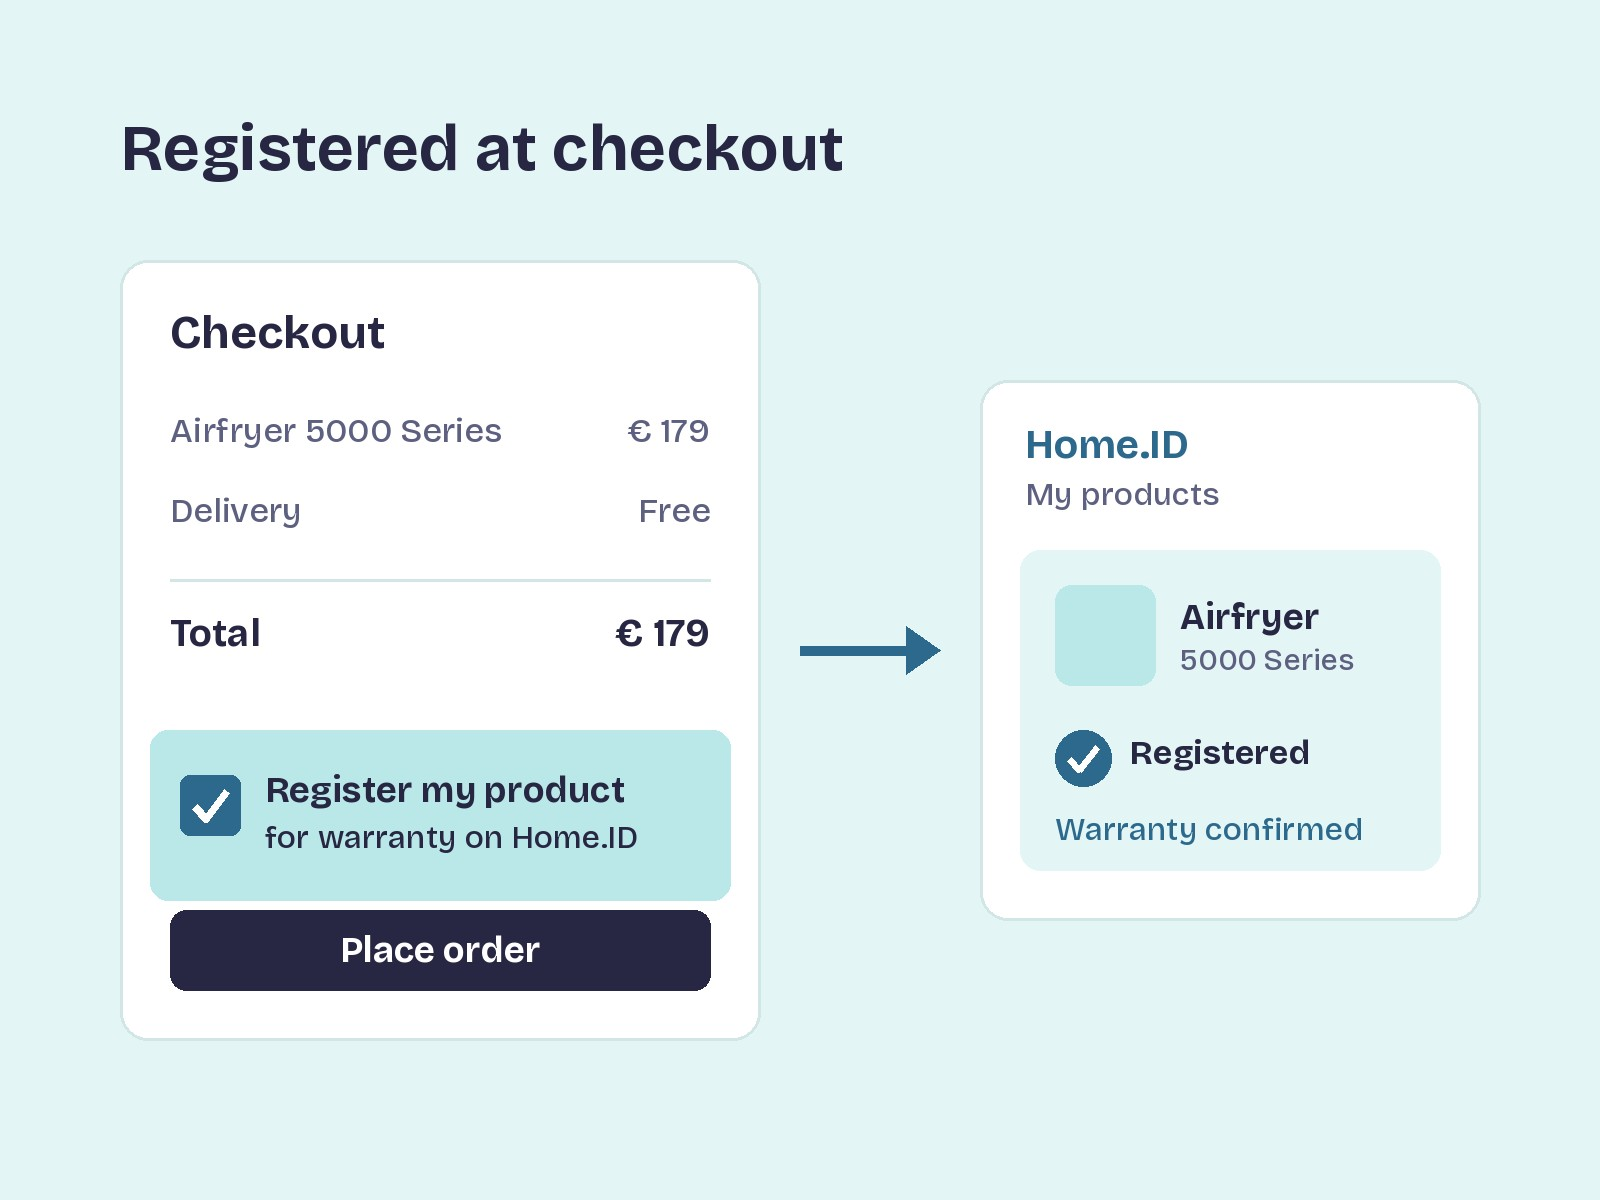
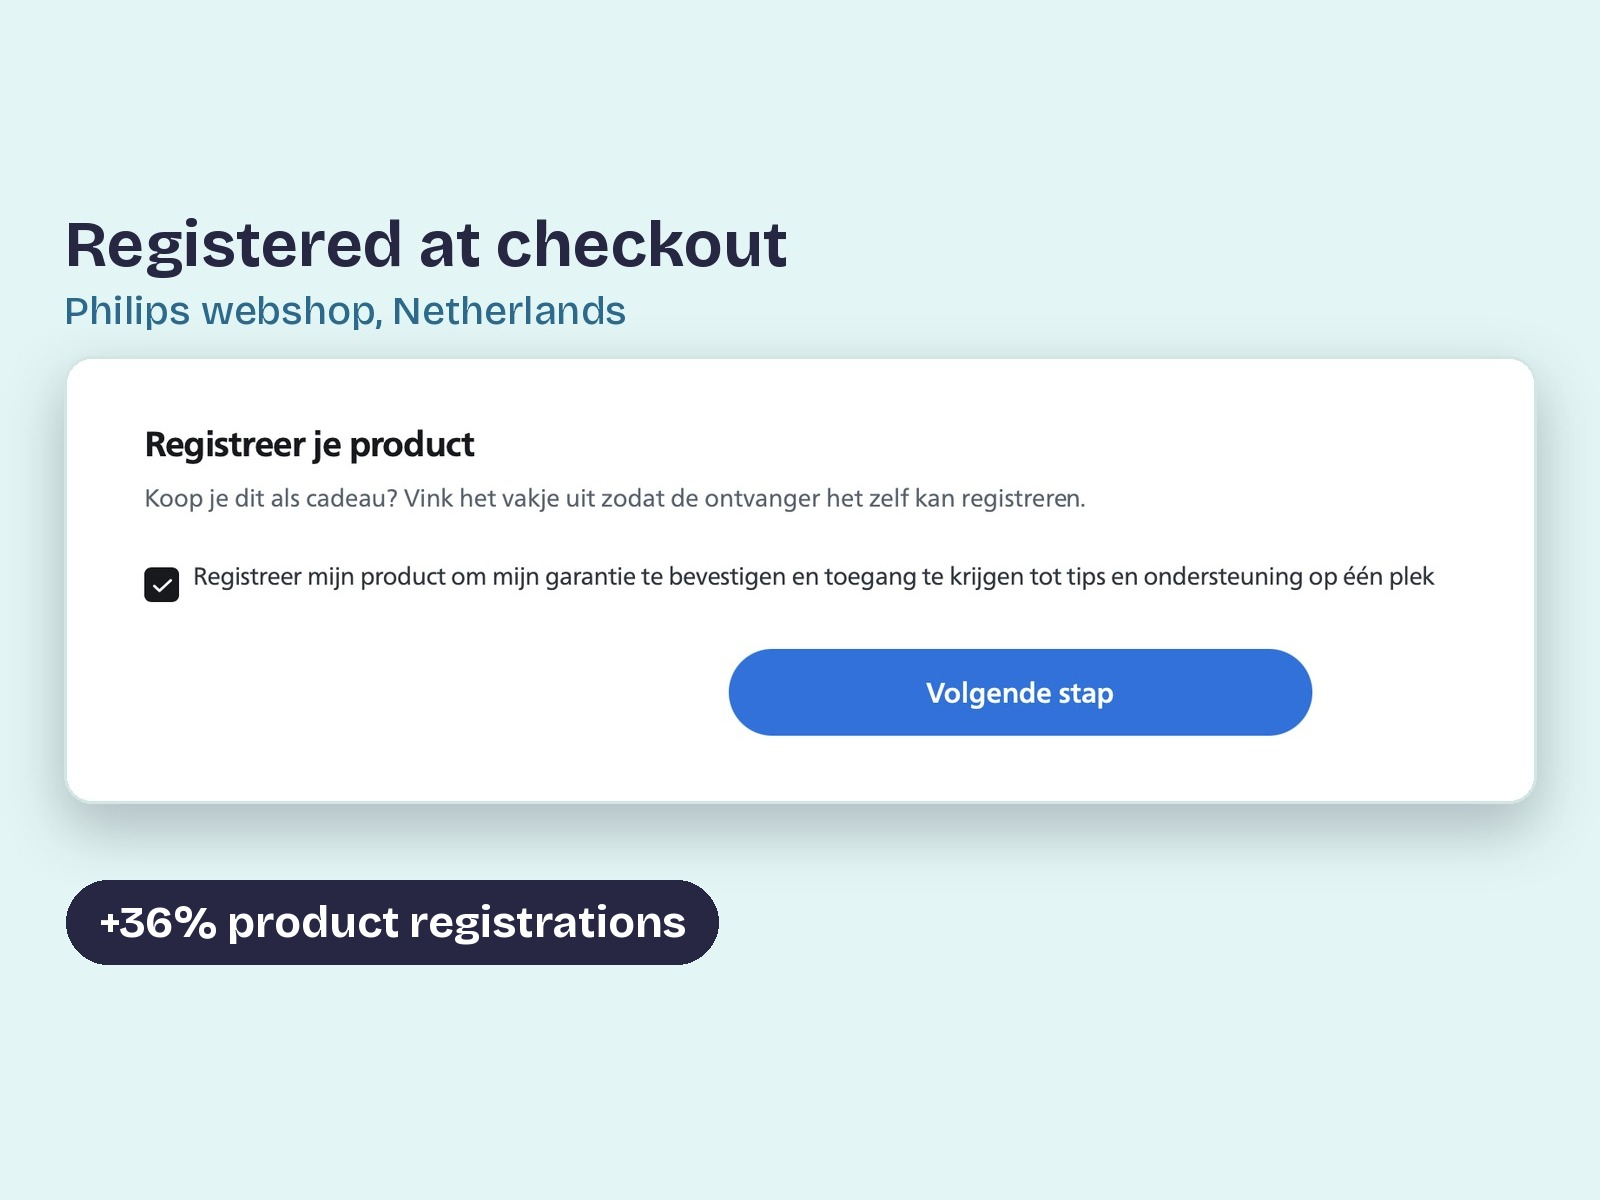
Case 03 cover: real checkout register block on mint, with the +36% result
Claude-Session: https://claude.ai/code/session_0145q5vvUPuWeEen7TLxxocU

diff --git a/src/content/projects.ts b/src/content/projects.ts
@@ -134,7 +134,7 @@ const tones: CoverTone[] = ["green", "sand", "ink", "clay"];
 const workCovers: Record<string, ProjectCard["image"]> = {
   "checkout-auto-registration": {
     src: checkoutAutoRegistration,
-    alt: "A checkout with the box Register my product for warranty on Home.ID ticked, and the product shown as registered in Home.ID",
+    alt: "Philips webshop checkout in the Netherlands: the ticked box Registreer je product, and the result: +36% product registrations",
   },
   "satisfaction-guarantee": {
     src: satisfactionGuarantee,
